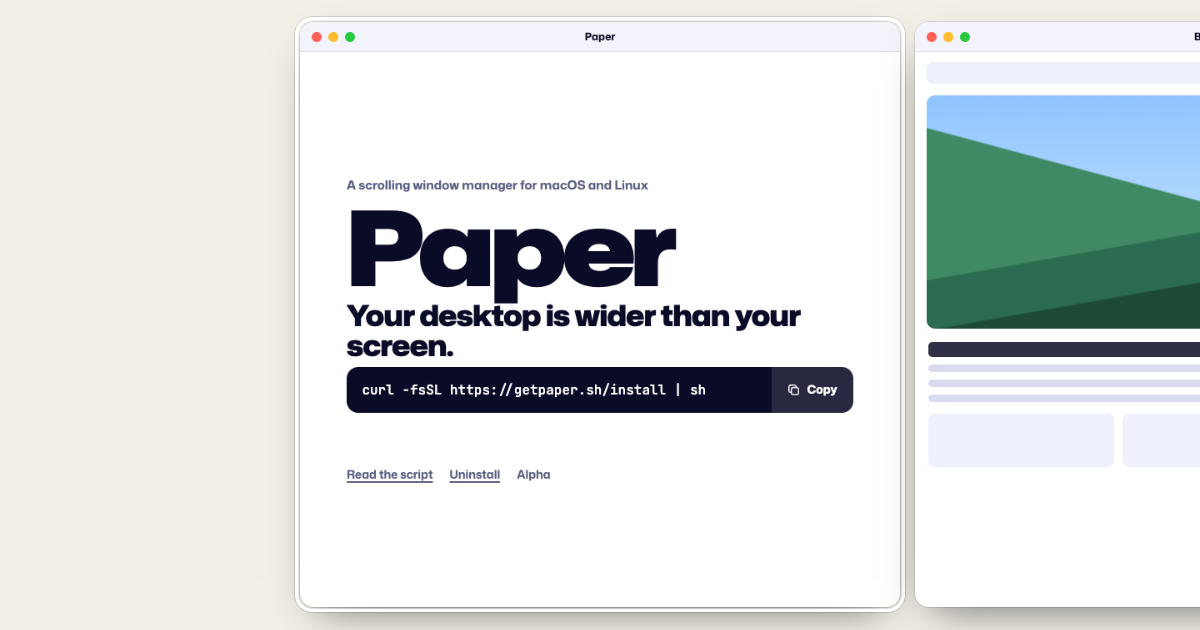
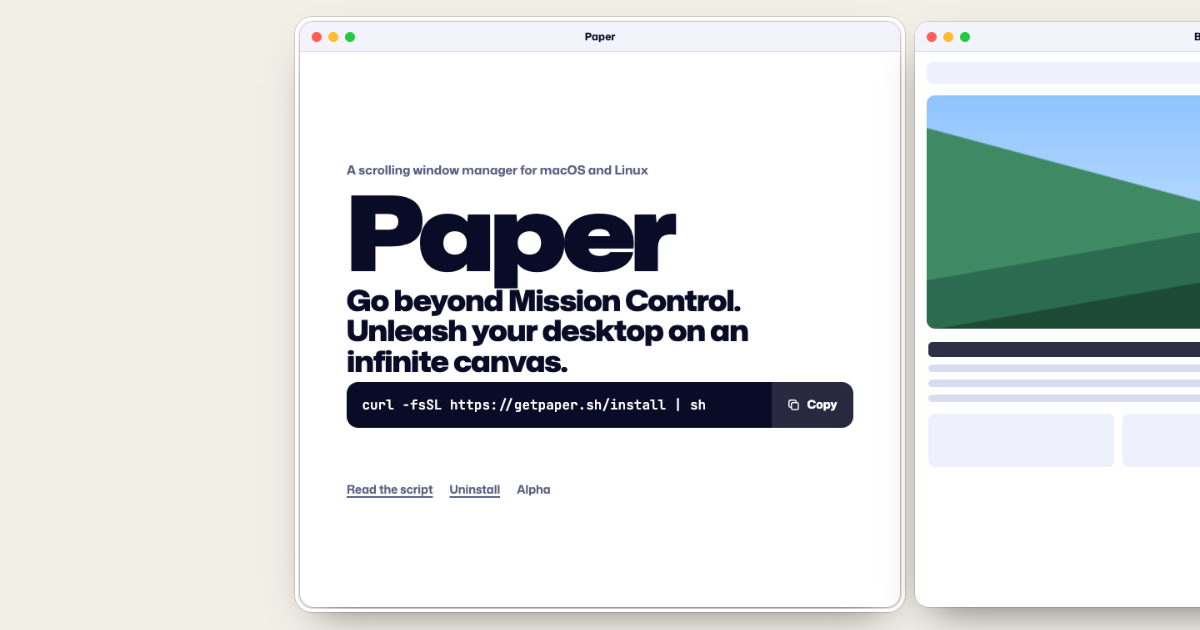
feat(site): adopt Strip, Canvas and Overview (#7)

Changed region(s): [[0.2775, 0.2413, 0.7092, 0.6937], [0.2775, 0.7238, 0.4625, 0.8143]]

diff --git a/index.html b/index.html
@@ -5,13 +5,13 @@
 <meta name="viewport" content="width=device-width, initial-scale=1">
 <title>Paper: a scrolling window manager for macOS and Linux</title>
 <meta property="og:title" content="Paper: a scrolling window manager for macOS and Linux">
-<meta property="og:description" content="Your desktop is wider than your screen.">
+<meta property="og:description" content="Go beyond Mission Control. Unleash your desktop on an infinite canvas.">
 <meta property="og:image" content="https://getpaper.sh/og.png">
 <meta property="og:image:width" content="1200">
 <meta property="og:image:height" content="630">
-<meta property="og:image:alt" content="Paper: Your desktop is wider than your screen. curl -fsSL https://getpaper.sh/install | sh">
+<meta property="og:image:alt" content="Paper: Go beyond Mission Control. Unleash your desktop on an infinite canvas. curl -fsSL https://getpaper.sh/install | sh">
 <meta name="twitter:card" content="summary_large_image">
-<meta name="description" content="Paper is a scrolling window manager for macOS and Linux. Your desktop is wider than your screen.">
+<meta name="description" content="Paper is a scrolling window manager for macOS and Linux. Go beyond Mission Control. Unleash your desktop on an infinite canvas.">
 <style>
 /* Shared kit for the getpaper.sh concepts (v3): app windows, mini desktops, devices,
    commands, feature tiles. Pages set the --k-* tokens; the kit never picks colours. */
@@ -1091,13 +1091,13 @@ window.LOGOS = {
   const cmd = Fork5.cmd, CURL = Fork5.CURL;
   V.COPIED = "Copied. Paste it in a terminal. It installs PaperMac on macOS or Paperland on Omarchy.";
   V.MAC_EXTRA = " PaperMac will then ask for Accessibility access.";
-  V.LEDE = "If you've used PaperWM or niri, you already know how it works. Every window stays a glance away.";
-  V.CAPS = ["New windows open beside your current one.", "Nothing shrinks or overlaps.", "Four widths, no dragging.", "The same strip on macOS and Omarchy."];
+  V.LEDE = "Windows scroll together in a Strip, like ticker tape. On Omarchy, zoom out in Overview to scan your Desktop like a newspaper and jump to a window.";
+  V.CAPS = ["New windows open beside your current one in the Strip.", "Nothing shrinks or overlaps.", "Four widths, no dragging.", "Scrolling Strips on macOS and Omarchy."];
 
   V.heroHTML = () => `
     <p class="cat">A scrolling window manager for macOS and Linux</p>
     <h1 id="title">Paper</h1>
-    <p class="tag">Your desktop is wider than your screen.</p>
+    <p class="tag">Go beyond Mission Control. Unleash your desktop on an infinite canvas.</p>
     ${cmd(CURL, "after-hero")}
     <p class="k-after" id="after-hero" data-mac-extra>${V.COPIED}</p>
     <p class="links"><a href="/install">Read the script</a><a href="#uninstall">Uninstall</a><span class="alpha">Alpha</span></p>`;
@@ -1107,8 +1107,8 @@ window.LOGOS = {
   // a platform-only feature names its platform; the mark alone is too small to read
   const on = (p) => `<span class="on">${LOGOS[p === "mac" ? "apple" : "omarchy"]}${p === "mac" ? "macOS" : "Omarchy"}</span>`;
   V.GROUPS = [
-    ["Get around", [["minimap", "The whole strip at a glance", ""], ["pills", "Hover the bar to preview", ""]]],
-    ["Find a window", [["overview", "See every window at once", on("om")], ["switcher", "Type to find any window", on("mac")]]],
+    ["Get around", [["minimap", "Minimap: the whole Strip at a glance", ""], ["pills", "Preview a Desktop from the bar", ""]]],
+    ["Find a window", [["overview", "Overview: see every window at once", on("om")], ["switcher", "Type to find any window", on("mac")]]],
     ["Focus on one", [["limelight", "Dim everything else", on("mac")], ["snooze", "Snooze a window for later", on("mac")]]],
   ];
   V.groupHTML = ([name, tiles], i) => `<div class="group"><h3><span class="no">0${i + 1}</span>${name}</h3><div class="tiles">${tiles.map(([k, cap, plat]) => `<figure class="tile" data-tile="${k}"><figcaption><span>${cap}</span>${plat}</figcaption></figure>`).join("")}</div></div>`;
@@ -1199,7 +1199,7 @@ window.LOGOS = {
 <script>
 // captions; the reduced-motion list below is built from the same lines
 const C = { land: V5.CAPS[0], none: V5.CAPS[1], drag: "Drag an edge to any width.", full: "Take the whole screen when you need it.", rest: "The rest waits just off screen.",
-  walk: "Step window to window from the keyboard.", swipe: "Swipe and the whole strip scrolls.", pair: V5.CAPS[3], mini: "The minimap shows where you are." };
+  walk: "Step window to window from the keyboard.", swipe: "Swipe and the whole Strip scrolls.", pair: V5.CAPS[3], mini: "The Minimap shows where you are in the Strip." };
 document.querySelector(".k-beats").innerHTML = [C.land, C.none, C.drag, C.full, C.rest, C.walk + " (⌘⌥← on macOS, Super+← on Omarchy)", C.swipe + " (hold ⌘⌥ on macOS)", C.pair, C.mini].map((x) => `<li>${x}</li>`).join("");
 const reduced = matchMedia("(prefers-reduced-motion: reduce)").matches, phone0 = innerWidth <= 700;
 // desktop with motion: the install section hangs off the story's two screens

diff --git a/site/index.html b/site/index.html
@@ -5,13 +5,13 @@
 <meta name="viewport" content="width=device-width, initial-scale=1">
 <title>Paper: a scrolling window manager for macOS and Linux</title>
 <meta property="og:title" content="Paper: a scrolling window manager for macOS and Linux">
-<meta property="og:description" content="Your desktop is wider than your screen.">
+<meta property="og:description" content="Go beyond Mission Control. Unleash your desktop on an infinite canvas.">
 <meta property="og:image" content="https://getpaper.sh/og.png">
 <meta property="og:image:width" content="1200">
 <meta property="og:image:height" content="630">
-<meta property="og:image:alt" content="Paper: Your desktop is wider than your screen. curl -fsSL https://getpaper.sh/install | sh">
+<meta property="og:image:alt" content="Paper: Go beyond Mission Control. Unleash your desktop on an infinite canvas. curl -fsSL https://getpaper.sh/install | sh">
 <meta name="twitter:card" content="summary_large_image">
-<meta name="description" content="Paper is a scrolling window manager for macOS and Linux. Your desktop is wider than your screen.">
+<meta name="description" content="Paper is a scrolling window manager for macOS and Linux. Go beyond Mission Control. Unleash your desktop on an infinite canvas.">
 <style>
 /* Shared kit for the getpaper.sh concepts (v3): app windows, mini desktops, devices,
    commands, feature tiles. Pages set the --k-* tokens; the kit never picks colours. */
@@ -1091,13 +1091,13 @@ window.LOGOS = {
   const cmd = Fork5.cmd, CURL = Fork5.CURL;
   V.COPIED = "Copied. Paste it in a terminal. It installs PaperMac on macOS or Paperland on Omarchy.";
   V.MAC_EXTRA = " PaperMac will then ask for Accessibility access.";
-  V.LEDE = "If you've used PaperWM or niri, you already know how it works. Every window stays a glance away.";
-  V.CAPS = ["New windows open beside your current one.", "Nothing shrinks or overlaps.", "Four widths, no dragging.", "The same strip on macOS and Omarchy."];
+  V.LEDE = "Windows scroll together in a Strip, like ticker tape. On Omarchy, zoom out in Overview to scan your Desktop like a newspaper and jump to a window.";
+  V.CAPS = ["New windows open beside your current one in the Strip.", "Nothing shrinks or overlaps.", "Four widths, no dragging.", "Scrolling Strips on macOS and Omarchy."];
 
   V.heroHTML = () => `
     <p class="cat">A scrolling window manager for macOS and Linux</p>
     <h1 id="title">Paper</h1>
-    <p class="tag">Your desktop is wider than your screen.</p>
+    <p class="tag">Go beyond Mission Control. Unleash your desktop on an infinite canvas.</p>
     ${cmd(CURL, "after-hero")}
     <p class="k-after" id="after-hero" data-mac-extra>${V.COPIED}</p>
     <p class="links"><a href="/install">Read the script</a><a href="#uninstall">Uninstall</a><span class="alpha">Alpha</span></p>`;
@@ -1107,8 +1107,8 @@ window.LOGOS = {
   // a platform-only feature names its platform; the mark alone is too small to read
   const on = (p) => `<span class="on">${LOGOS[p === "mac" ? "apple" : "omarchy"]}${p === "mac" ? "macOS" : "Omarchy"}</span>`;
   V.GROUPS = [
-    ["Get around", [["minimap", "The whole strip at a glance", ""], ["pills", "Hover the bar to preview", ""]]],
-    ["Find a window", [["overview", "See every window at once", on("om")], ["switcher", "Type to find any window", on("mac")]]],
+    ["Get around", [["minimap", "Minimap: the whole Strip at a glance", ""], ["pills", "Preview a Desktop from the bar", ""]]],
+    ["Find a window", [["overview", "Overview: see every window at once", on("om")], ["switcher", "Type to find any window", on("mac")]]],
     ["Focus on one", [["limelight", "Dim everything else", on("mac")], ["snooze", "Snooze a window for later", on("mac")]]],
   ];
   V.groupHTML = ([name, tiles], i) => `<div class="group"><h3><span class="no">0${i + 1}</span>${name}</h3><div class="tiles">${tiles.map(([k, cap, plat]) => `<figure class="tile" data-tile="${k}"><figcaption><span>${cap}</span>${plat}</figcaption></figure>`).join("")}</div></div>`;
@@ -1199,7 +1199,7 @@ window.LOGOS = {
 <script>
 // captions; the reduced-motion list below is built from the same lines
 const C = { land: V5.CAPS[0], none: V5.CAPS[1], drag: "Drag an edge to any width.", full: "Take the whole screen when you need it.", rest: "The rest waits just off screen.",
-  walk: "Step window to window from the keyboard.", swipe: "Swipe and the whole strip scrolls.", pair: V5.CAPS[3], mini: "The minimap shows where you are." };
+  walk: "Step window to window from the keyboard.", swipe: "Swipe and the whole Strip scrolls.", pair: V5.CAPS[3], mini: "The Minimap shows where you are in the Strip." };
 document.querySelector(".k-beats").innerHTML = [C.land, C.none, C.drag, C.full, C.rest, C.walk + " (⌘⌥← on macOS, Super+← on Omarchy)", C.swipe + " (hold ⌘⌥ on macOS)", C.pair, C.mini].map((x) => `<li>${x}</li>`).join("");
 const reduced = matchMedia("(prefers-reduced-motion: reduce)").matches, phone0 = innerWidth <= 700;
 // desktop with motion: the install section hangs off the story's two screens

diff --git a/src/_kit/v5.js b/src/_kit/v5.js
@@ -4,13 +4,13 @@
   const cmd = Fork5.cmd, CURL = Fork5.CURL;
   V.COPIED = "Copied. Paste it in a terminal. It installs PaperMac on macOS or Paperland on Omarchy.";
   V.MAC_EXTRA = " PaperMac will then ask for Accessibility access.";
-  V.LEDE = "If you've used PaperWM or niri, you already know how it works. Every window stays a glance away.";
-  V.CAPS = ["New windows open beside your current one.", "Nothing shrinks or overlaps.", "Four widths, no dragging.", "The same strip on macOS and Omarchy."];
+  V.LEDE = "Windows scroll together in a Strip, like ticker tape. On Omarchy, zoom out in Overview to scan your Desktop like a newspaper and jump to a window.";
+  V.CAPS = ["New windows open beside your current one in the Strip.", "Nothing shrinks or overlaps.", "Four widths, no dragging.", "Scrolling Strips on macOS and Omarchy."];
 
   V.heroHTML = () => `
     <p class="cat">A scrolling window manager for macOS and Linux</p>
     <h1 id="title">Paper</h1>
-    <p class="tag">Your desktop is wider than your screen.</p>
+    <p class="tag">Go beyond Mission Control. Unleash your desktop on an infinite canvas.</p>
     ${cmd(CURL, "after-hero")}
     <p class="k-after" id="after-hero" data-mac-extra>${V.COPIED}</p>
     <p class="links"><a href="/install">Read the script</a><a href="#uninstall">Uninstall</a><span class="alpha">Alpha</span></p>`;
@@ -20,8 +20,8 @@
   // a platform-only feature names its platform; the mark alone is too small to read
   const on = (p) => `<span class="on">${LOGOS[p === "mac" ? "apple" : "omarchy"]}${p === "mac" ? "macOS" : "Omarchy"}</span>`;
   V.GROUPS = [
-    ["Get around", [["minimap", "The whole strip at a glance", ""], ["pills", "Hover the bar to preview", ""]]],
-    ["Find a window", [["overview", "See every window at once", on("om")], ["switcher", "Type to find any window", on("mac")]]],
+    ["Get around", [["minimap", "Minimap: the whole Strip at a glance", ""], ["pills", "Preview a Desktop from the bar", ""]]],
+    ["Find a window", [["overview", "Overview: see every window at once", on("om")], ["switcher", "Type to find any window", on("mac")]]],
     ["Focus on one", [["limelight", "Dim everything else", on("mac")], ["snooze", "Snooze a window for later", on("mac")]]],
   ];
   V.groupHTML = ([name, tiles], i) => `<div class="group"><h3><span class="no">0${i + 1}</span>${name}</h3><div class="tiles">${tiles.map(([k, cap, plat]) => `<figure class="tile" data-tile="${k}"><figcaption><span>${cap}</span>${plat}</figcaption></figure>`).join("")}</div></div>`;

diff --git a/src/v7-1-viewfinder/index.html b/src/v7-1-viewfinder/index.html
@@ -5,13 +5,13 @@
 <meta name="viewport" content="width=device-width, initial-scale=1">
 <title>Paper: a scrolling window manager for macOS and Linux</title>
 <meta property="og:title" content="Paper: a scrolling window manager for macOS and Linux">
-<meta property="og:description" content="Your desktop is wider than your screen.">
+<meta property="og:description" content="Go beyond Mission Control. Unleash your desktop on an infinite canvas.">
 <meta property="og:image" content="https://getpaper.sh/og.png">
 <meta property="og:image:width" content="1200">
 <meta property="og:image:height" content="630">
-<meta property="og:image:alt" content="Paper: Your desktop is wider than your screen. curl -fsSL https://getpaper.sh/install | sh">
+<meta property="og:image:alt" content="Paper: Go beyond Mission Control. Unleash your desktop on an infinite canvas. curl -fsSL https://getpaper.sh/install | sh">
 <meta name="twitter:card" content="summary_large_image">
-<meta name="description" content="Paper is a scrolling window manager for macOS and Linux. Your desktop is wider than your screen.">
+<meta name="description" content="Paper is a scrolling window manager for macOS and Linux. Go beyond Mission Control. Unleash your desktop on an infinite canvas.">
 <link rel="stylesheet" href="../_kit/kit.css">
 <link rel="stylesheet" href="../_kit/v5.css">
 <link rel="stylesheet" href="../_kit/fork5.css">
@@ -104,7 +104,7 @@
 <script>
 // captions; the reduced-motion list below is built from the same lines
 const C = { land: V5.CAPS[0], none: V5.CAPS[1], drag: "Drag an edge to any width.", full: "Take the whole screen when you need it.", rest: "The rest waits just off screen.",
-  walk: "Step window to window from the keyboard.", swipe: "Swipe and the whole strip scrolls.", pair: V5.CAPS[3], mini: "The minimap shows where you are." };
+  walk: "Step window to window from the keyboard.", swipe: "Swipe and the whole Strip scrolls.", pair: V5.CAPS[3], mini: "The Minimap shows where you are in the Strip." };
 document.querySelector(".k-beats").innerHTML = [C.land, C.none, C.drag, C.full, C.rest, C.walk + " (⌘⌥← on macOS, Super+← on Omarchy)", C.swipe + " (hold ⌘⌥ on macOS)", C.pair, C.mini].map((x) => `<li>${x}</li>`).join("");
 const reduced = matchMedia("(prefers-reduced-motion: reduce)").matches, phone0 = innerWidth <= 700;
 // desktop with motion: the install section hangs off the story's two screens

diff --git a/PRODUCT.md b/PRODUCT.md
@@ -25,7 +25,11 @@ Paper is one scrolling workflow on two platforms: PaperMac on macOS and Paperlan
 
 ## Positioning
 
-Windows sit side by side on a horizontal strip that is wider than the screen. Moving focus scrolls the strip; windows are not shrunk into a grid and do not overlap. The same concepts, layout, labels and shortcuts on macOS and on Hyprland: a user who learns one does not relearn the other.
+Windows sit side by side in a scrolling Strip that can extend beyond the screen. Moving focus scrolls the Strip; windows are not shrunk into a grid and do not overlap. Paper uses shared terminology on macOS and Hyprland while keeping platform-specific capabilities explicit.
+
+Approved tagline: "Go beyond Mission Control. Unleash your desktop on an infinite canvas."
+
+Infinite Canvas is the feature name; "an infinite canvas" describes the experience in a sentence. Unlimited capacity is product intent until the corresponding behavior is verified. The tagline does not promise unbounded capacity or imply that PaperMac replaces native Mission Control.
 
 ## Operating Context
 
@@ -36,13 +40,27 @@ Windows sit side by side on a horizontal strip that is wider than the screen. Mo
 
 ## Capabilities and Constraints
 
-Shared concepts (both products): the scrolling strip per Desktop/workspace; focus moves left/right and the focused window is centered by default; window width presets (0.33, 0.5, 0.66, 0.9 of the screen); new windows open after the focused one; a minimap of the strip with Desktop pills; a keyboard window switcher (Option/Alt+Tab); Desktop/workspace pills in the menu bar or Omarchy bar with hover previews; named Desktops; a command-line interface.
+Shared concepts (both products): scrolling Strips within a Desktop; focus moves left/right and the focused window is centered by default; window width presets (0.33, 0.5, 0.66, 0.9 of the screen); new windows open after the focused one; a Minimap of the Strip with Desktop pills; a keyboard window switcher (Option/Alt+Tab); Desktop pills in the menu bar or Omarchy bar with hover previews; named Desktops; a command-line interface.
 
 PaperMac only or ahead today: Limelight (dims unfocused windows), optional focused-window border, typed search in the switcher across all Desktops, window snoozing, per-app rules, customizable shortcuts with a Ghost Keys overlay, a guided first-run lesson ("First Flow"), Sparkle updates.
 
-Paperland only or ahead today: full-display overview with Full/Icons/Timeline modes, Peek mode for the minimap, scratchpad.
+Paperland only or ahead today: full-display Overview with Full/Icons/Timeline modes, Peek mode for the Minimap, scratchpad.
 
-Terminology: "Desktop" vs "Workspace" wording is an open owner decision; prefer showing over labeling. PaperMac's Desktop labels use macOS words; Paperland's use Hyprland words.
+### Shared terminology
+
+- **Strip:** A scrolling band of window columns that move together.
+- **Canvas:** The surface containing Strips.
+- **Infinite Canvas:** The feature and product direction for a Canvas extending beyond the screen. Unlimited capacity remains intent until verified.
+- **Overview:** The zoomed-out browsing mode used to find, jump to, or rearrange windows where supported.
+- **Desktop:** A native macOS Space or Hyprland workspace. Keep Desktop and Strip distinct.
+- **Column:** A window column within a Strip.
+- **Stack:** Multiple windows grouped vertically in a Column.
+- **Window:** An individual application window.
+- **Minimap:** The compact navigation representation.
+
+Introduce the metaphors briefly: a Strip scrolls like ticker tape; Overview lets users scan their Desktop like a newspaper. Routine controls use the concrete names. These metaphors do not imply automatic scrolling, editorial reflow, or new capabilities. Multiple Strips above and below one another describe the Canvas direction; existing platform specifications and implemented behavior govern availability.
+
+Use Desktop in product-facing prose, while preserving native platform wording when describing macOS Spaces or Hyprland workspaces. UI Strip still maps to `lane` in existing CLI/API/config identifiers, wire fields and persisted data; this vocabulary change does not rename those contracts.
 
 Page constraints: self-hosted fonts and images only; no third-party requests (no CDNs, hosted fonts, analytics, trackers). Light and dark. Works from 320 px to wide desktop. Accessible: keyboard reachable, visible focus, reduced motion respected.
 
@@ -60,7 +78,7 @@ Page constraints: self-hosted fonts and images only; no third-party requests (no
 
 ## Product Principles
 
-1. Show the strip, then say it: the mechanism is visual and should be seen before it is explained.
+1. Show the Strip, then say it: the mechanism is visual and should be seen before it is explained.
 2. One workflow, two platforms: the page treats macOS and Hyprland as equals.
 3. Honest alpha: state what is real today and mark what is coming.
 4. The command is the call to action: every path ends at a copyable, readable command.
